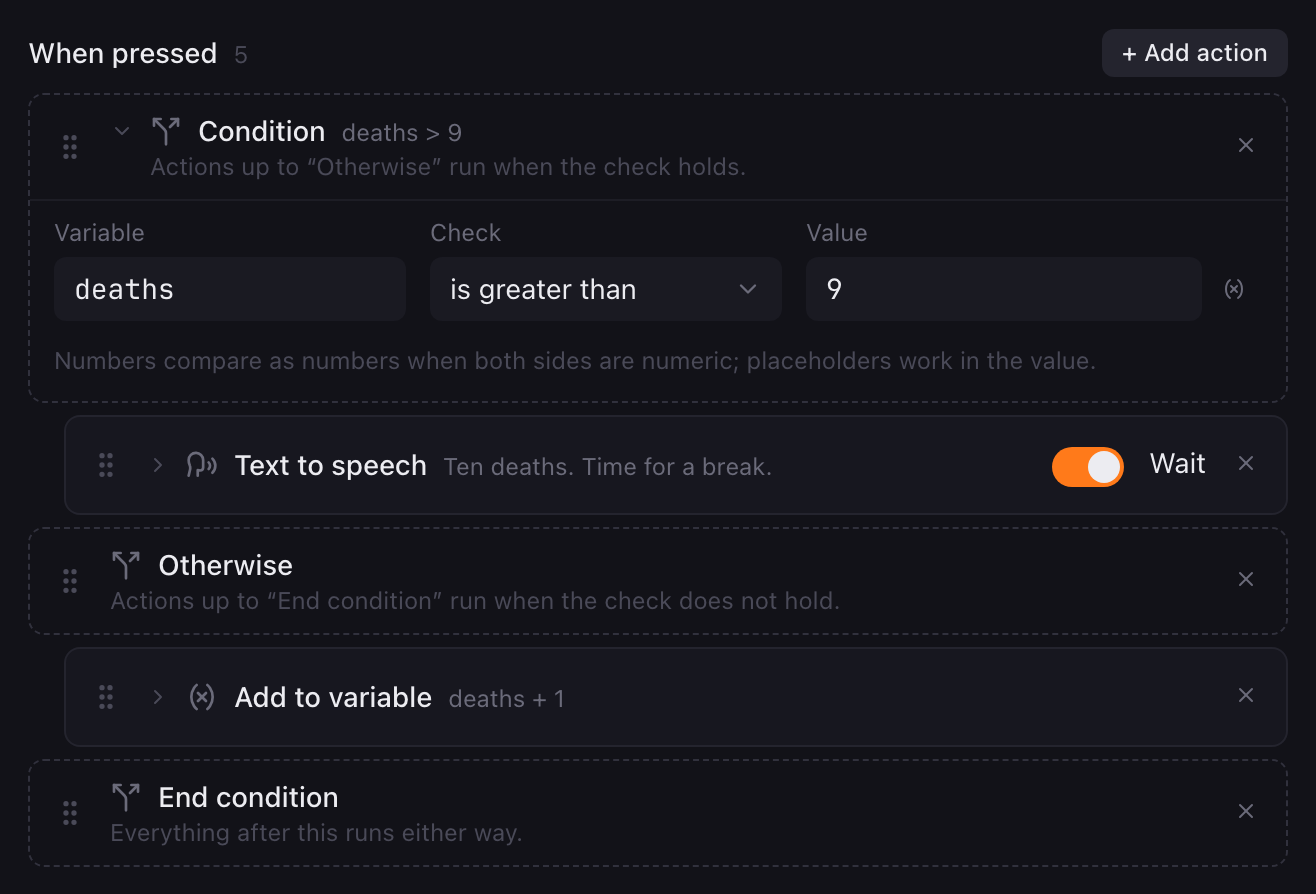
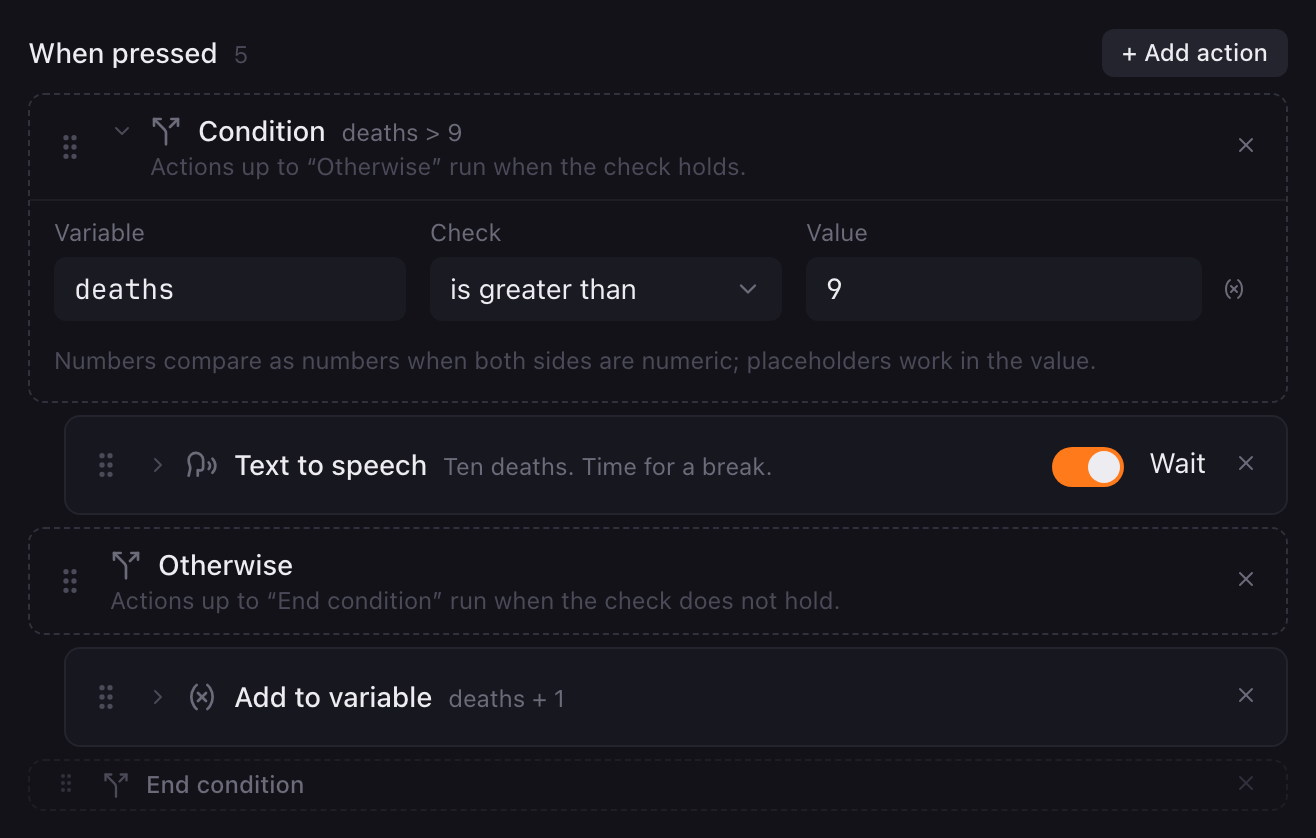
Document the loop block and the 1.1.0 changes
A page for the Loop block (count, until a check holds, until stopped;
check before or after each round; the time limit and its branch; the
loop.* values), the flow markers list and the folded empty branches in
the action-lists guide, apps on macOS and the wait switch on Launch
application, adding and changing variables in the settings, Import
button… on a pad, and the mock backend's new commands. Screenshots of
the flow blocks, the launch editor and the Variables tab retaken.

diff --git a/scripts/screenshots/scenarios/actions.ts b/scripts/screenshots/scenarios/actions.ts
@@ -56,6 +56,7 @@ const markers = <T extends string>(...names: T[]) => Object.fromEntries(names.ma
 const ff = markers("s", "m", "e");
 const ptt = markers("s", "e");
 const cond = markers("s", "o", "e");
+const loop = markers("s", "t", "e");
 
 /** OBS and Streamlabs twins share their editor; one shot each. */
 function streaming(suffix: string, kind: (type: string) => ActionKind, o: Options = {}): Shot[] {
@@ -84,6 +85,16 @@ export const actionShots: Shot[] = [
     { ...act({ type: "ifElse", startId: cond.s, endId: cond.e }), id: cond.o },
     act({ type: "addToVariable", name: "deaths", amount: "1", scope: "global" }),
     { ...act({ type: "ifEnd", startId: cond.s, elseId: cond.o }), id: cond.e },
+  ] as Action[]),
+  shot("loopStart", [
+    {
+      ...act({ type: "loopStart", mode: "until", variable: "obs.streaming", op: "equals", value: "true", check: "head", from: "1", to: "10", step: "1", intervalMs: 500, timeoutMs: 20000, timeoutId: loop.t, endId: loop.e }),
+      id: loop.s,
+    },
+    act({ type: "getWindow", target: "title", title: "", matching: "contains", app: "OBS", saveTo: "obs", saveScope: "local" }),
+    { ...act({ type: "loopTimeout", startId: loop.s, endId: loop.e }), id: loop.t },
+    act({ type: "textToSpeech", text: "OBS did not go live.", voice: null, volume: 1 }),
+    { ...act({ type: "loopEnd", startId: loop.s, timeoutId: loop.t }), id: loop.e },
   ] as Action[]),
   shot(
     "flipFlopStart",

diff --git a/scripts/screenshots/mock/backend.ts b/scripts/screenshots/mock/backend.ts
@@ -161,6 +161,7 @@ export function handle(cmd: string, a: Args): unknown {
       return MODELS;
     // A delivery from the hub is read with the very same review as a file.
     case "hub_review_delivery":
+    case "review_button_file":
     case "review_import_file":
     case "review_import_json": {
       const shared = {
@@ -330,6 +331,8 @@ export function handle(cmd: string, a: Args): unknown {
     case "import_page_json":
     case "import_page_file":
       return { pages: 1, buttons: 12, actions: 30, warnings: [] };
+    case "import_button_file":
+      return { pages: 0, buttons: 1, actions: 5, warnings: [] };
     case "restore_profile_backup":
       return structuredClone(profile);
     case "read_image_data_uri":
@@ -445,6 +448,9 @@ export function handle(cmd: string, a: Args): unknown {
     case "delete_variables":
       (a.names as string[]).forEach((name) => delete variables[name]);
       return variables;
+    case "set_variable":
+      variables[String(a.name).trim()] = String(a.value);
+      return { ...variables };
     case "clear_variables":
       Object.keys(variables).forEach((name) => delete variables[name]);
       return variables;
